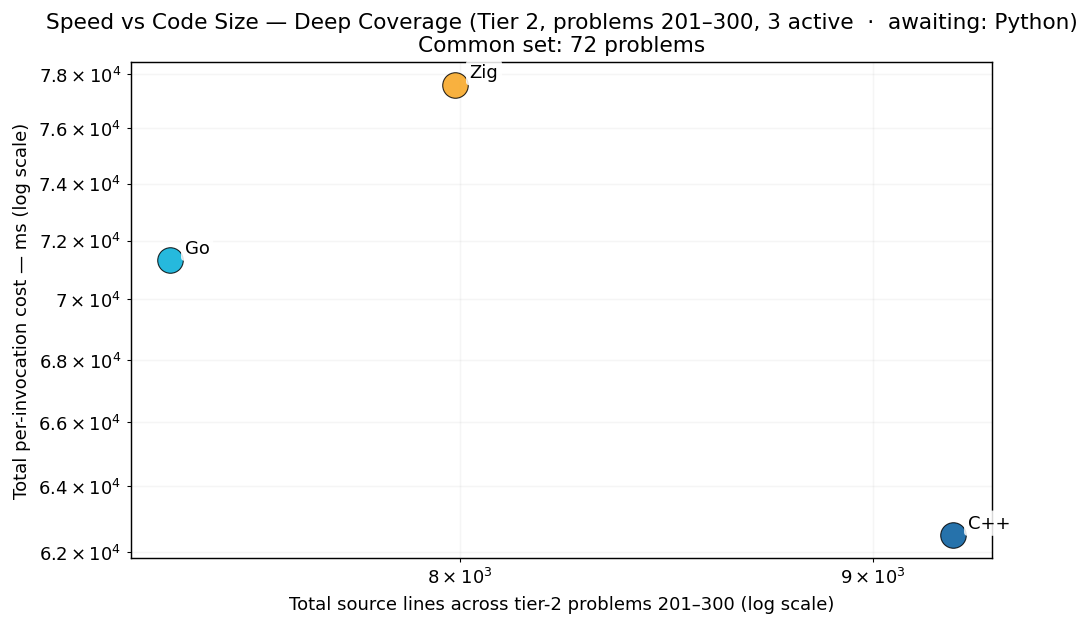
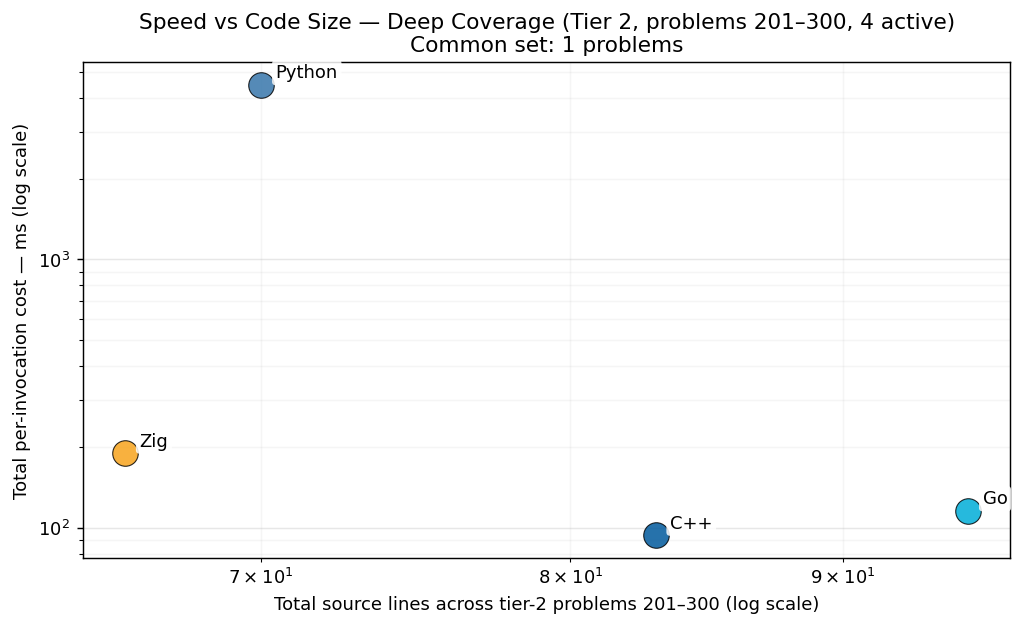
publish: tier-2 fully bench'd in cpp/go/zig (95+/96 each), python p213 lands; per-tier ranking populates

diff --git a/per_problem/per_problem_201-300.md b/per_problem/per_problem_201-300.md
@@ -10,105 +10,105 @@ column per language in tier-1 display order (native → managed → interpreted)
 
 | Problem | C++ | Zig | Go | Python |
 |---------|----:|----:|----:|----:|
-| **p201** | 658.36 ms | — | — | — |
-| **p202** | 4.7 µs | — | — | — |
-| **p203** | 133.0 µs | — | — | — |
-| **p204** | 14.26 ms | — | — | — |
-| **p205** | 4.3 µs | — | — | — |
-| **p206** | 50.69 ms | — | — | — |
-| **p207** | 416.2 µs | — | — | — |
-| **p208** | 11.99 ms | — | — | — |
-| **p209** | 1.8 µs | — | — | — |
-| **p210** | 464.57 ms | — | — | — |
-| **p211** | 3.78 s | — | — | — |
-| **p212** | 6.03 s | — | — | — |
-| **p213** | — | — | — | — |
-| **p214** | 533.59 ms | — | — | — |
-| **p215** | 5.43 ms | — | — | — |
-| **p216** | 4.76 s | — | — | — |
-| **p217** | 1.32 ms | — | — | — |
-| **p218** | 616.52 ms | — | — | — |
-| **p219** | 2.6 µs | — | — | — |
-| **p220** | 1.6 µs | — | — | — |
-| **p221** | 20.94 ms | — | — | — |
-| **p222** | 20.0 µs | — | — | — |
-| **p223** | 5.53 s | — | — | — |
-| **p224** | 2.07 s | — | — | — |
-| **p225** | 15.87 ms | — | — | — |
-| **p226** | 497.15 ms | — | — | — |
-| **p227** | — | — | — | — |
-| **p228** | 13.2 µs | — | — | — |
-| **p229** | 4.62 s | — | — | — |
-| **p230** | 4.7 µs | — | — | — |
-| **p231** | 49.37 ms | — | — | — |
-| **p232** | 303.3 µs | — | — | — |
-| **p233** | 28.74 ms | — | — | — |
-| **p234** | 3.22 ms | — | — | — |
-| **p235** | 11.5 µs | — | — | — |
+| **p201** | 658.36 ms | 518.09 ms | 1.15 s | — |
+| **p202** | 4.7 µs | 8.1 µs | 5.7 µs | — |
+| **p203** | 133.0 µs | 64.8 µs | 80.6 µs | — |
+| **p204** | 14.26 ms | 14.27 ms | 22.09 ms | — |
+| **p205** | 4.3 µs | 2.3 µs | 5.3 µs | — |
+| **p206** | 50.69 ms | 41.04 ms | 66.37 ms | — |
+| **p207** | 416.2 µs | 320.5 µs | 141.8 µs | — |
+| **p208** | 11.99 ms | 11.76 ms | 17.90 ms | — |
+| **p209** | 1.8 µs | 667 ns | 2.2 µs | — |
+| **p210** | 464.57 ms | 360.87 ms | 291.34 ms | — |
+| **p211** | 3.78 s | 4.52 s | 4.55 s | — |
+| **p212** | 6.03 s | 5.61 s | 10.82 s | — |
+| **p213** | 93.46 ms | 189.24 ms | 115.33 ms | 4.48 s |
+| **p214** | 533.59 ms | 571.97 ms | 732.09 ms | — |
+| **p215** | 5.43 ms | 6.64 ms | 10.93 ms | — |
+| **p216** | 4.76 s | 1.78 s | 1.81 s | — |
+| **p217** | 1.32 ms | 664.9 µs | 1.40 ms | — |
+| **p218** | 616.52 ms | 42 ns | 683.70 ms | — |
+| **p219** | 2.6 µs | 1.6 µs | 2.9 µs | — |
+| **p220** | 1.6 µs | 1.5 µs | 2.5 µs | — |
+| **p221** | 20.94 ms | 14.59 ms | 48.79 ms | — |
+| **p222** | 20.0 µs | 1.88 s | 27.3 µs | — |
+| **p223** | 5.53 s | 6.90 s | 5.69 s | — |
+| **p224** | 2.07 s | 2.16 s | 1.84 s | — |
+| **p225** | 15.87 ms | 15.81 ms | 16.29 ms | — |
+| **p226** | 497.15 ms | 54.20 ms | 2.48 s | — |
+| **p227** | 75.7 µs | 12.2 µs | 83.7 µs | — |
+| **p228** | 13.2 µs | 8.1 µs | 13.5 µs | — |
+| **p229** | 4.62 s | 15.11 s | 6.86 s | — |
+| **p230** | 4.7 µs | 2.3 µs | 3.8 µs | — |
+| **p231** | 49.37 ms | 49.15 ms | 59.08 ms | — |
+| **p232** | 303.3 µs | 1.37 ms | 408.5 µs | — |
+| **p233** | 28.74 ms | 19.37 ms | 31.93 ms | — |
+| **p234** | 3.22 ms | 2.04 ms | 2.70 ms | — |
+| **p235** | 11.5 µs | 12.5 µs | 9.7 µs | — |
 | **p236** | — | — | — | — |
-| **p237** | 39.3 µs | — | — | — |
+| **p237** | 39.3 µs | 9.0 µs | 21.1 µs | — |
 | **p238** | — | — | — | — |
-| **p239** | 583 ns | — | — | — |
-| **p240** | 50.5 µs | — | — | — |
+| **p239** | 583 ns | 41 ns | 1.7 µs | — |
+| **p240** | 50.5 µs | 27.0 µs | 143.2 µs | — |
 | **p241** | — | — | — | — |
-| **p242** | 1.5 µs | — | — | — |
-| **p243** | 1.9 µs | — | — | — |
-| **p244** | 16.30 ms | — | — | — |
-| **p245** | 1.03 s | — | — | — |
-| **p246** | 1.80 s | — | — | — |
-| **p247** | 137.25 ms | — | — | — |
-| **p248** | 747.81 ms | — | — | — |
-| **p249** | 1.11 s | — | — | — |
-| **p250** | 105.56 ms | — | — | — |
-| **p251** | 2.94 s | — | — | — |
-| **p252** | 250.13 ms | — | — | — |
-| **p253** | 60.9 µs | — | — | — |
-| **p254** | 389.12 ms | — | — | — |
-| **p255** | 465.74 ms | — | — | — |
-| **p256** | 1.03 s | — | — | — |
-| **p257** | 370.36 ms | — | — | — |
-| **p258** | 184.26 ms | — | — | — |
-| **p259** | 4.76 s | — | — | — |
-| **p260** | 1.58 s | — | — | — |
-| **p261** | 18.31 ms | — | — | — |
-| **p262** | — | — | — | — |
-| **p263** | 5.31 s | — | — | — |
-| **p264** | 254.91 ms | — | — | — |
-| **p265** | 479.8 µs | — | — | — |
-| **p266** | 1.52 s | — | — | — |
-| **p267** | 15.1 µs | — | — | — |
-| **p268** | 37.80 ms | — | — | — |
-| **p269** | 178.83 ms | — | — | — |
-| **p270** | 688.8 µs | — | — | — |
-| **p271** | — | — | — | — |
-| **p272** | — | — | — | — |
-| **p273** | — | — | — | — |
-| **p274** | — | — | — | — |
-| **p275** | — | — | — | — |
-| **p276** | — | — | — | — |
-| **p277** | — | — | — | — |
-| **p278** | — | — | — | — |
-| **p279** | — | — | — | — |
-| **p280** | — | — | — | — |
-| **p281** | — | — | — | — |
-| **p282** | — | — | — | — |
-| **p283** | — | — | — | — |
-| **p284** | — | — | — | — |
-| **p285** | — | — | — | — |
-| **p286** | — | — | — | — |
-| **p287** | — | — | — | — |
-| **p288** | — | — | — | — |
+| **p242** | 1.5 µs | 1.2 µs | 4.2 µs | — |
+| **p243** | 1.9 µs | 45.2 µs | 5.3 µs | — |
+| **p244** | 16.30 ms | 61.97 ms | 16.33 ms | — |
+| **p245** | 1.03 s | 1.28 s | 746.20 ms | — |
+| **p246** | 1.80 s | 3.47 ms | 2.02 s | — |
+| **p247** | 137.25 ms | 17.65 ms | 680.01 ms | — |
+| **p248** | 747.81 ms | 804.48 ms | 891.92 ms | — |
+| **p249** | 1.11 s | 253.55 ms | 1.47 s | — |
+| **p250** | 105.56 ms | 107.52 ms | 209.86 ms | — |
+| **p251** | 2.94 s | 3.57 s | 3.18 s | — |
+| **p252** | 250.13 ms | 257.24 ms | 426.81 ms | — |
+| **p253** | 60.9 µs | 25.1 µs | 71.2 µs | — |
+| **p254** | 389.12 ms | 355.10 ms | 446.54 ms | — |
+| **p255** | 465.74 ms | 666.09 ms | 623.47 ms | — |
+| **p256** | 1.03 s | 1.10 s | 1.32 s | — |
+| **p257** | 370.36 ms | 378.97 ms | 394.40 ms | — |
+| **p258** | 184.26 ms | 205.72 ms | 262.07 ms | — |
+| **p259** | 4.76 s | 14.36 s | 1.40 s | — |
+| **p260** | 1.58 s | 1.11 s | 1.90 s | — |
+| **p261** | 18.31 ms | 16.33 ms | 14.73 ms | — |
+| **p262** | 5.92 s | — | 5.52 s | — |
+| **p263** | 5.31 s | 1.88 s | 1.60 s | — |
+| **p264** | 254.91 ms | 264.77 ms | 307.66 ms | — |
+| **p265** | 479.8 µs | 501.6 µs | 980.5 µs | — |
+| **p266** | 1.52 s | 1.43 s | 5.03 s | — |
+| **p267** | 15.1 µs | 12.5 µs | 30.4 µs | — |
+| **p268** | 37.80 ms | 24.14 ms | 35.47 ms | — |
+| **p269** | 178.83 ms | 28.59 ms | 57.19 ms | — |
+| **p270** | 688.8 µs | 41 ns | 704.6 µs | — |
+| **p271** | 100.1 µs | 42 ns | 45.9 µs | — |
+| **p272** | 6.43 s | 6.74 s | 8.03 s | — |
+| **p273** | 1.68 s | 1.82 s | 4.65 s | — |
+| **p274** | 97.32 ms | 198.65 ms | 63.87 ms | — |
+| **p275** | 81.69 s | — | — | — |
+| **p276** | 74.11 ms | 64.82 ms | 82.33 ms | — |
+| **p277** | 6.3 µs | 5.7 µs | 24.2 µs | — |
+| **p278** | 32.83 ms | 65.32 ms | 34.54 ms | — |
+| **p279** | 696.04 ms | 930.62 ms | 707.18 ms | — |
+| **p280** | 1.25 ms | 1.18 ms | 1.43 ms | — |
+| **p281** | 378.7 µs | 31.3 µs | 305.1 µs | — |
+| **p282** | 16.8 µs | 17.0 µs | 8.2 µs | — |
+| **p283** | 1.47 s | 1.57 s | 3.13 s | — |
+| **p284** | 252.42 ms | 276.56 ms | 324.38 ms | — |
+| **p285** | 3.64 ms | 4.20 ms | 4.93 ms | — |
+| **p286** | 116.8 µs | 149.9 µs | 183.7 µs | — |
+| **p287** | 788.43 ms | 500.55 ms | 577.46 ms | — |
+| **p288** | 131.74 ms | 137.20 ms | 45.75 ms | — |
 | **p289** | — | — | — | — |
-| **p290** | — | — | — | — |
-| **p291** | — | — | — | — |
-| **p292** | — | — | — | — |
-| **p293** | — | — | — | — |
-| **p294** | — | — | — | — |
-| **p295** | — | — | — | — |
-| **p296** | — | — | — | — |
-| **p297** | — | — | — | — |
-| **p298** | — | — | — | — |
-| **p299** | — | — | — | — |
-| **p300** | — | — | — | — |
+| **p290** | 7.27 ms | 7.68 ms | 10.72 ms | — |
+| **p291** | 2.04 s | 2.73 s | 2.00 s | — |
+| **p292** | 408.09 ms | 425.52 ms | 495.46 ms | — |
+| **p293** | 44.26 ms | 43.76 ms | 44.67 ms | — |
+| **p294** | 4.82 s | 7.24 s | 9.61 s | — |
+| **p295** | 537.45 ms | 252.08 ms | 507.05 ms | — |
+| **p296** | 17.67 s | 18.14 s | 3.73 s | — |
+| **p297** | 2.9 µs | 1.1 µs | 8.0 µs | — |
+| **p298** | 161.16 ms | — | 17.01 ms | — |
+| **p299** | 257.83 ms | 265.79 ms | 402.83 ms | — |
+| **p300** | 37.35 s | — | 6.46 s | — |
 
 ⬅ [Back to RESULTS](../RESULTS.md)

diff --git a/RESULTS.md b/RESULTS.md
@@ -1,6 +1,6 @@
 # Project Euler — Cross-Language Benchmarks
 
-> **Scope: 2400 in-scope cells across 300 problems × tiered languages — 2232 measured (93.0% coverage).**
+> **Scope: 2400 in-scope cells across 300 problems × tiered languages — 2283 measured (95.1% coverage).**
 > The cross-language ranking below is computed over the **199-problem common set** (problems in 1-200 where every language has a passing measurement) — the apples-to-apples Foundation comparison surface.  Per-tier rankings and coverage detail appear further below.
 > Growing carefully — each new problem and language is audited for state-leak
 > safety, verified for answer correctness, and added only when it cleanly fits the
@@ -37,15 +37,14 @@ shown in the coverage block further down.
 
 Same per-invocation metric, restricted to the deeper subset of languages (C++, Go, Zig, Python) that intentionally pushed past problem 200. The other 6 Foundation languages are out of tier scope here — they're capped at 200 by the project's language-cap policy (see JOURNEY.md).
 
-_Common set computed over the **3 active** tier-2 langs_ _(C++, Go, Zig);_ _awaiting: Python. Common set will tighten once awaited langs land tier-2 data._
-
 ![Per-Invocation Cost — Tier 2](charts/per_iter_total_tier2.png)
 
-| Rank | Language | Total (72-problem common set) | Lines of code | vs Fastest |
+| Rank | Language | Total (1-problem common set) | Lines of code | vs Fastest |
 |------|----------|--------------------:|--------------:|-----------:|
-| 1 | **C++** | 62.51 s | 9,208 | 1.00× |
-| 2 | **Go** | 71.32 s | 7,367 | 1.14× |
-| 3 | **Zig** | 77.59 s | 7,990 | 1.24× |
+| 1 | **C++** | 93.46 ms | 83 | 1.00× |
+| 2 | **Go** | 115.33 ms | 95 | 1.23× |
+| 3 | **Zig** | 189.24 ms | 66 | 2.02× |
+| 4 | **Python** | 4.48 s | 70 | 47.94× |
 
 ### Speed vs Code Size — Tier 2
 
